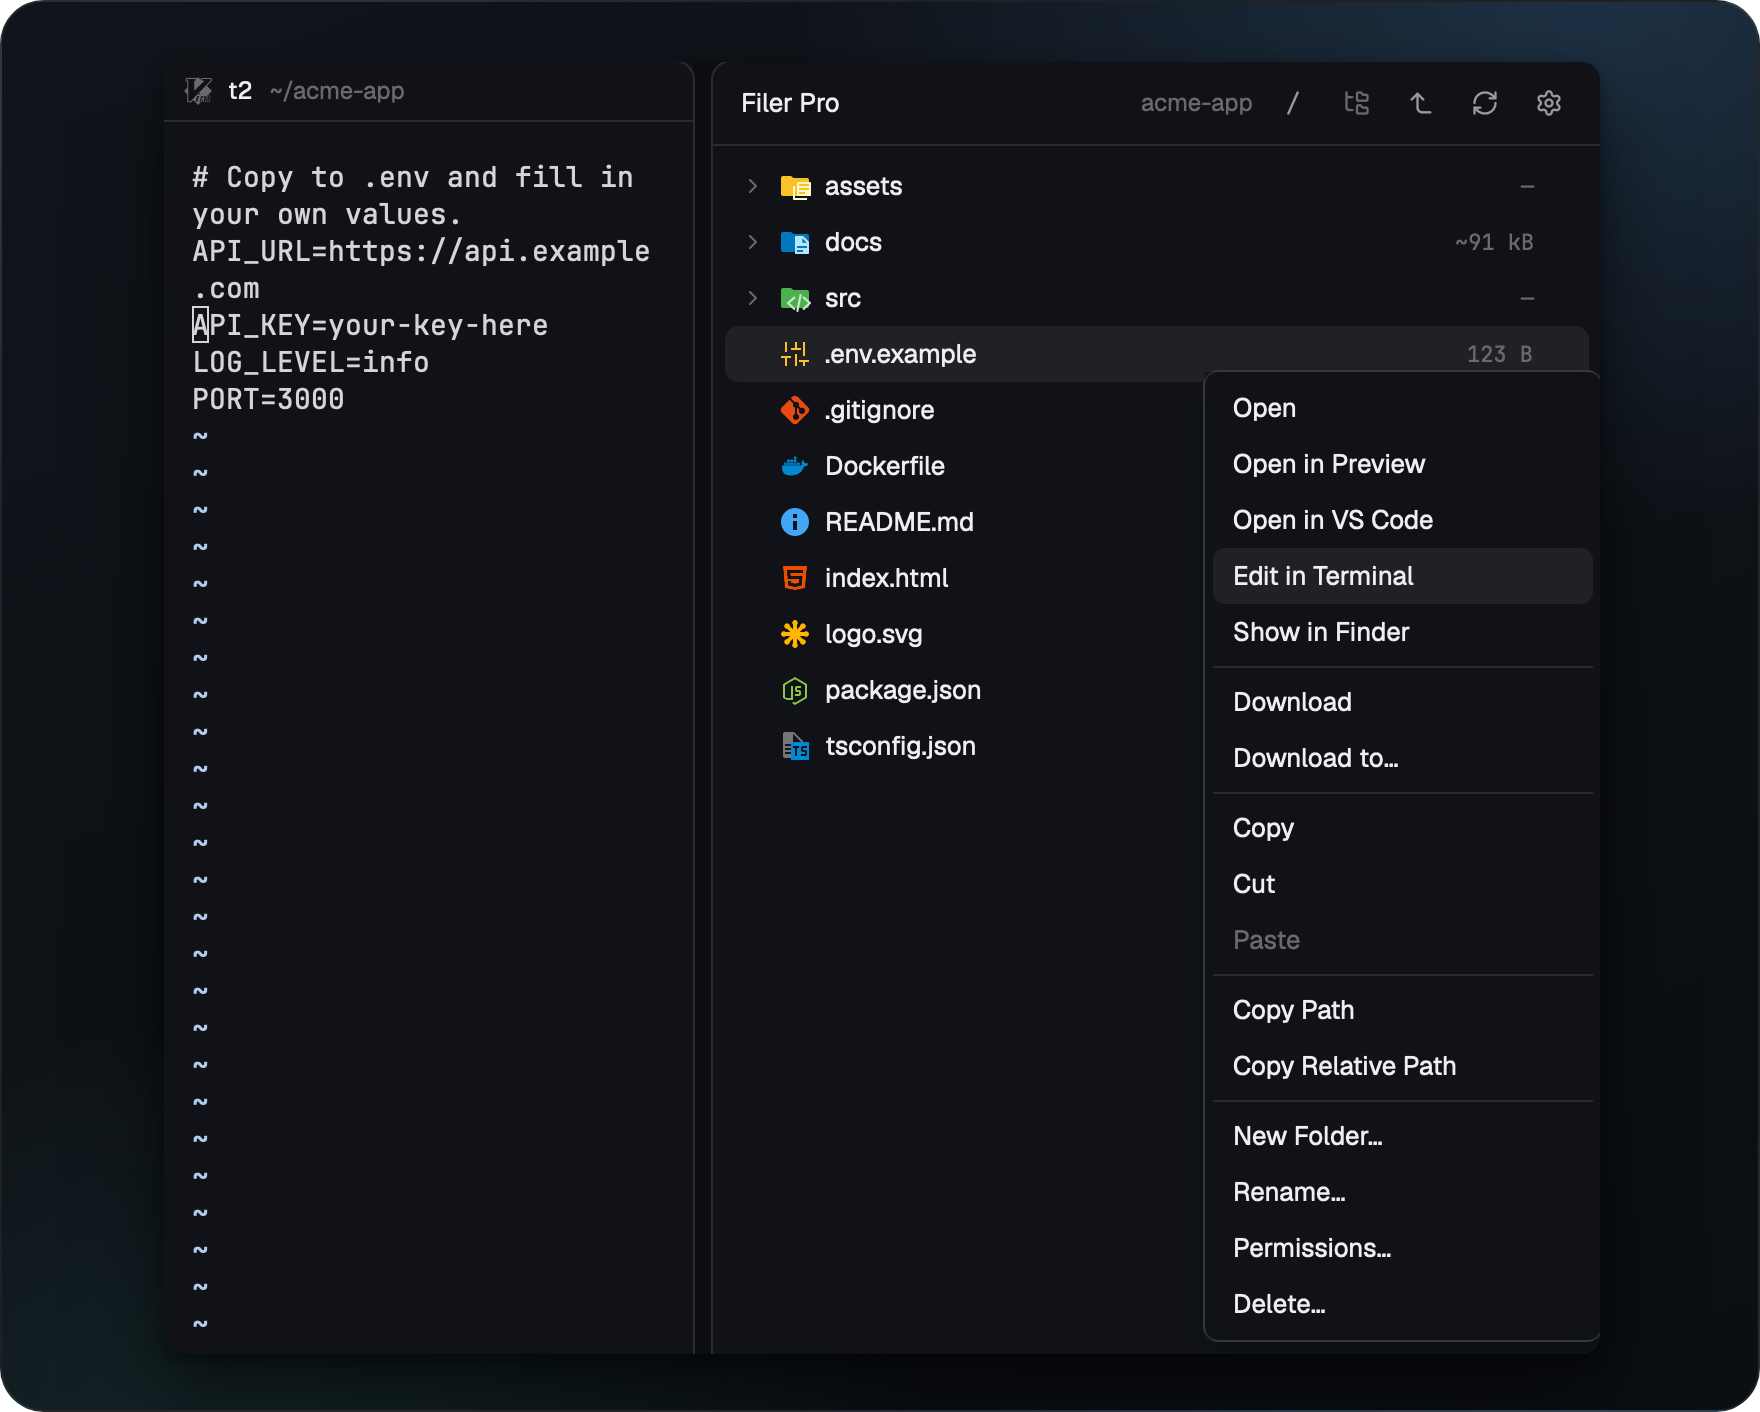
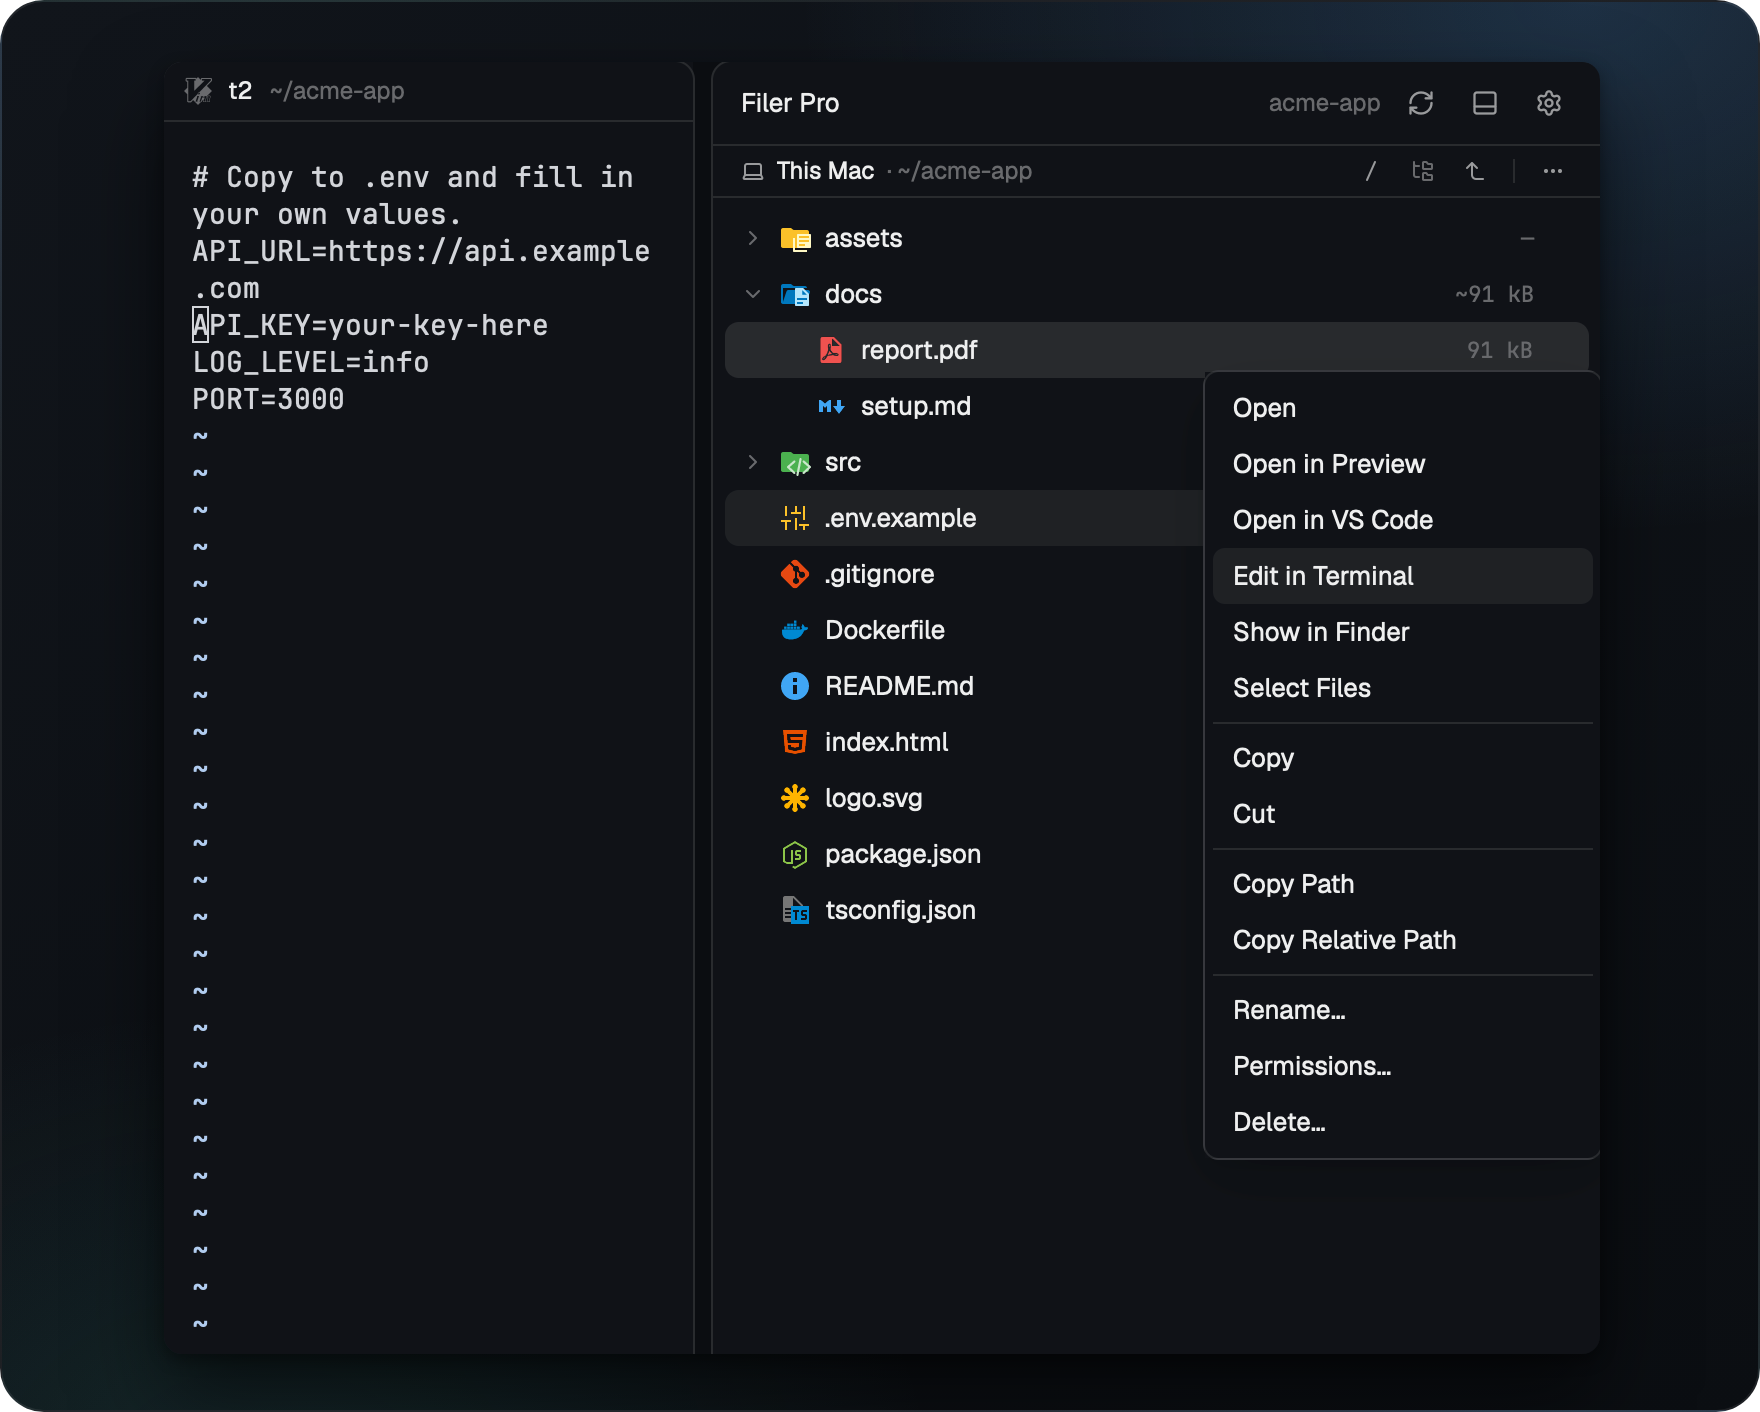
docs: README and screenshots for 1.4
- README: Folder actions, This Mac below, Select several as own sections;
  Transfers rewritten for upload, download, move and drag into a terminal
- new cards: machine (devbox tree over This Mac), select, folder-actions
- re-shot: browse, editors, extract, show-as-root, settings
- shoot.sh: select, machine, folder-actions; DEMO_MACHINE shows a host as
  devbox; zoom 2 fallback on displays without Retina scaling
- demo-instance.sh: machine step with its own hc session, cleaned by clean
- demo-hook.mjs: select op, tree parameter, row menu as in rows()

diff --git a/scripts/screenshots/cards/machine.html b/scripts/screenshots/cards/machine.html
@@ -1,0 +1,14 @@
+<!DOCTYPE html>
+<html lang="en"><head><meta charset="utf-8"><title>Machine card</title>
+<link rel="stylesheet" href="card.css">
+<style>
+/* layout: the devbox tree above This Mac with both location lines, the row menu of a remote file with Download to This Mac beside it */
+html, body { width: 880px; height: 792px; }
+.tree { left: 120px; top: 30px; width: 446px; height: 732px; }
+.shot.cut.tree { border-color: #363a3f; }
+.menu { left: 580px; top: 100px; width: 200px; border-radius: 9px; }
+</style></head>
+<body><div class="frame">
+  <div class="shot cut tree"><img src="machine-tree.png" alt=""></div>
+  <div class="shot menu"><img src="machine-menu.png" alt=""></div>
+</div></body></html>

diff --git a/scripts/screenshots/cards/select.html b/scripts/screenshots/cards/select.html
@@ -1,0 +1,14 @@
+<!DOCTYPE html>
+<html lang="en"><head><meta charset="utf-8"><title>Select card</title>
+<link rel="stylesheet" href="card.css">
+<style>
+/* layout: three files picked in the checkbox mode with the selection bar below the tree, the short menu for all of them beside it */
+html, body { width: 880px; height: 792px; }
+.tree { left: 120px; top: 30px; width: 446px; height: 732px; }
+.shot.cut.tree { border-color: #363a3f; }
+.menu { left: 580px; top: 100px; width: 200px; border-radius: 9px; }
+</style></head>
+<body><div class="frame">
+  <div class="shot cut tree"><img src="select-tree.png" alt=""></div>
+  <div class="shot menu"><img src="select-menu.png" alt=""></div>
+</div></body></html>

diff --git a/scripts/screenshots/cards/folder-actions.html b/scripts/screenshots/cards/folder-actions.html
@@ -1,0 +1,14 @@
+<!DOCTYPE html>
+<html lang="en"><head><meta charset="utf-8"><title>Folder actions card</title>
+<link rel="stylesheet" href="card.css">
+<style>
+/* layout: the devbox tree, the Folder actions menu of its location line beside it */
+html, body { width: 880px; height: 640px; }
+.tree { left: 120px; top: 30px; width: 446px; height: 580px; }
+.shot.cut.tree { border-color: #363a3f; }
+.menu { left: 580px; top: 100px; width: 200px; border-radius: 9px; }
+</style></head>
+<body><div class="frame">
+  <div class="shot cut tree"><img src="folder-tree.png" alt=""></div>
+  <div class="shot menu"><img src="folder-menu.png" alt=""></div>
+</div></body></html>

diff --git a/scripts/screenshots/README.md b/scripts/screenshots/README.md
@@ -8,17 +8,21 @@ The README images in `screenshots/` are cards: crops of a running Herdr window, 
 scripts/screenshots/shoot.sh
 ```
 
-`scripts/screenshots/shoot.sh browse extract` shoots only the named cards (preview, formats, browse, editors, extract, edit-terminal, pdf-fullscreen, settings, show-as-root); `CROP_ONLY=1` re-crops and renders from the raw shots in `tmp/shots-raw` without launching anything.
+`scripts/screenshots/shoot.sh browse extract` shoots only the named cards (preview, formats, browse, editors, extract, edit-terminal, pdf-fullscreen, settings, show-as-root, select, machine, folder-actions); `CROP_ONLY=1` re-crops and renders from the raw shots in `tmp/shots-raw` without launching anything.
 
-It prepares a separate Herdr instance, launches it once, sets every state without mouse or keyboard, takes the shots, quits the instance, crops them and renders all cards into `screenshots/`. Needs macOS, Herdr.app, Microsoft Edge (headless, no window), `node`, `zip` and `sips`. Look at every image before you commit it: no user name, no path outside `~/acme-app`.
+`machine` and `folder-actions` show a machine tree and need an SSH host: `DEMO_MACHINE=<ssh target> scripts/screenshots/shoot.sh`. The host shows as `devbox` and gets the demo project in `/tmp/acme-app` (a machine tree shows the full path, so a folder below `/home/<user>` would show the user name). Without `DEMO_MACHINE` both cards are skipped.
+
+It prepares a separate Herdr instance, launches it once, sets every state without mouse or keyboard, takes the shots, quits the instance, crops them and renders all cards into `screenshots/`. Needs macOS, Herdr.app, Microsoft Edge (headless, no window), `node`, `zip` and `sips`. Look at every image before you commit it: no user name, no path outside `~/acme-app` (and `/tmp/acme-app` on `devbox`), no real host name.
+
+On a display without Retina scaling the window shoots at half size. Then the run restarts the instance with a window of 2560 x 1640 points at app zoom 2, so the panel lands on the same pixels; `preview`, `formats` and `pdf-fullscreen` are skipped then, and `edit-terminal` cuts its menu at the window edge (Markdown, Mermaid, PDF and HTML draw at the wrong scale at zoom 2): shoot those on a Retina display.
 
 What it never does: touch your own Herdr or its installed mod, use `osascript`, `open -a`, mouse or keyboard automation, or raise a window. The one focus change is macOS giving a new app instance the focus when it launches. The window must stay visible (a minimized window renders no frames for `herdr-app shot`).
 
 ## Files
 
-- `shoot.sh`: the whole run (prepare, launch, drive, shoot, quit, clean, crop, render). The crop boxes are raw pixels of the default window (1280 x 820 points, panel 446 points wide, app zoom 1); it stops when the window has another size.
-- `demo-instance.sh`: `prepare | start | space | quit | clean` for the separate instance. Its `HERDR_APP_HOME` is `tmp/shots-home` and its core session `filerpro-shots`. `prepare` copies `demo/acme-app` to `~/acme-app` (the pane header shows that path, and it refuses to overwrite an existing folder), generates `report.pdf`, `hero.png` and `release.zip` from `demo/gen/` (headless Edge, `zip`), copies the mod of this checkout and writes a layout with the panel shown. It also marks the welcome screen (`frame.welcomed` in `shared.json`) and the what's-new window (`last_run` in `update-notes.json`) as done, so a new instance opens no popup that would need a click.
-- `demo-hook.mjs`: patches the instance's copy of the mod (never `mods/filer-pro`, never your installed mod) so the panel polls `$HERDR_APP_HOME/demo-cmd.json` and sets the state a click or hover would set, through the real code: expanded folders, Calculate Size, the row menu with one entry hovered, the Settings dialog scrolled to a section, the fullscreen PDF with two pages, the lower tree on or off (`{"op":"localtree","shown":true}`, optional `root` and `sizes`). It stops loudly when an anchor in the mod has moved; `test/screenshot-hook.test.js` applies it to the current mod on every `npm test`, and checks that the shipped mod has no trace of it.
+- `shoot.sh`: the whole run (prepare, launch, drive, shoot, quit, clean, crop, render). The crop boxes are raw pixels of the default window (1280 x 820 points at 2x, panel 446 points wide, app zoom 1); it stops when the window has another size.
+- `demo-instance.sh`: `prepare | start | space | machine | quit | clean` for the separate instance. Its `HERDR_APP_HOME` is `tmp/shots-home` and its core session `filerpro-shots`. `prepare` copies `demo/acme-app` to `~/acme-app` (the pane header shows that path, and it refuses to overwrite an existing folder), generates `report.pdf`, `hero.png` and `release.zip` from `demo/gen/` (headless Edge, `zip`), copies the mod of this checkout and writes a layout with the panel shown. It also marks the welcome screen (`frame.welcomed` in `shared.json`) and the what's-new window (`last_run` in `update-notes.json`) as done, so a new instance opens no popup that would need a click. `machine` copies the demo to `/tmp/acme-app` on `DEMO_MACHINE` (it refuses to overwrite) and adds that host to this instance's core only, as `devbox`, with its own hc session there: `~/.ssh/config` and the machines of your own Herdr stay as they are. `clean` deletes both again, the remote session included.
+- `demo-hook.mjs`: patches the instance's copy of the mod (never `mods/filer-pro`, never your installed mod) so the panel polls `$HERDR_APP_HOME/demo-cmd.json` and sets the state a click or hover would set, through the real code: expanded folders, Calculate Size, the row menu with one entry hovered, the Settings dialog scrolled to a section, the fullscreen PDF with two pages, the lower tree on or off (`{"op":"localtree","shown":true}`, optional `root` and `sizes`), a selection (`{"op":"select","paths":[…],"boxes":true}`), the Folder actions menu (`rootmenu`). `"tree":"pinned"` points a command at the lower tree. It stops loudly when an anchor in the mod has moved; `test/screenshot-hook.test.js` applies it to the current mod on every `npm test`, and checks that the shipped mod has no trace of it.
 - `render.sh`: renders a card into a PNG with headless Microsoft Edge (`EDGE=/path/to/browser` picks another Chromium-based browser).
 - `cards/card.css`, `cards/*.html`: the shared frame and one card per image, each listing its crops and their positions in CSS pixels. The crops (`cards/*.png`) and the browser profile are ignored by git: they hold window content, only the finished card goes into `screenshots/`.
 - `demo/acme-app/`, `demo/gen/`: the demo project and the sources of its generated binary files.

diff --git a/README.md b/README.md
@@ -7,7 +7,8 @@
 - **Follows your terminal:** the tree shows the folder of the focused terminal, local or remote.
 - **Previews almost anything:** Markdown with Mermaid diagrams, PDF, code, HTML and images, also in full screen.
 - **Edits in place:** quick fixes right in the panel, or one click to your editor.
-- **Moves files between machines:** upload, download and copy from one SSH machine to another.
+- **Two trees:** your terminal's folder on top, This Mac below.
+- **Moves files between your Mac and your machines:** upload, download, copy and move, also from one SSH machine to another.
 - **Quiet on SSH machines:** no commands sent while you just look.
 
 <br>
@@ -35,14 +36,36 @@ Then click `Filer Pro` in the tab bar.
 ### Browse
 
 - **Your terminal's folder:** `cd` in the terminal, and the tree follows.
-- **This Mac below:** a second tree on this computer under the terminal's tree; Copy in one, Paste in the other.
-- **Navigate freely:** Up one level, Go to `/`, and one click back to the terminal's folder, in a location line above each tree.
-- **Folder actions:** the `…` button of each tree for New Folder, Paste, Upload, Show in Finder, Open in your editor and Show Hidden Files.
+- **Location line:** where you are, Go to `/`, Up one level and one click back to the terminal's folder.
 - **Sizes and git marks:** file sizes next to each name, Calculate Size for folders, `M` `A` `U` `D` from git.
 - **Always current:** follows file system events on this Mac, no polling.
-- **Select several files:** Select Files in the right-click menu, or Cmd+click and Shift+click with the switch in Settings.
 
 ![The file tree with sizes, a calculated folder size and the row menu of a file](screenshots/browse.png)
+
+### Folder actions
+
+- **The `…` in the location line**, or a right click below the tree: Upload File… and Upload Folder… on machines, New Folder…, Paste, Show in Finder, Open in your editor, Select Files.
+- **Show Hidden Files** with one click.
+- **Row menus act on the row** they belong to.
+
+![The Folder actions of a machine tree with Upload File…, Upload Folder… and Show Hidden Files](screenshots/folder-actions.png)
+
+### This Mac below
+
+- **A second tree** on this computer under the terminal's tree: **Show This Mac** in the header, `×` to close.
+- **Starts in your home folder,** or in the start folder you set in Settings.
+- **Between the trees:** Download to This Mac, Upload to `<machine>`, or Copy and Paste.
+- **Drag the divider** to share the height.
+
+![A machine tree on devbox above This Mac, with Download to This Mac in the row menu](screenshots/machine.png)
+
+### Select several
+
+- **Select Files** in a menu puts a checkbox on every row.
+- **Cmd+click and Shift+click** with the switch in Settings.
+- **One step for all:** Download, Copy, Cut, Paste, Copy Paths or Delete, from the selection bar or a right click.
+
+![Three files checked, the selection bar and the menu for all of them](screenshots/select.png)
 
 ### Show as Root
 
@@ -88,11 +111,12 @@ Then click `Filer Pro` in the tab bar.
 
 ### Transfers
 
-- **Drop to upload** from the Finder, or **Upload File…** or **Upload Folder…** in the Folder actions of a machine tree (the file picker needs a Herdr version with `pickFiles`), right click to download.
-- **Drag out:** rows are drag sources for terminals only (the path is pasted). Between the two trees use **Upload to <machine>**, **Download to This Mac** or Copy and Paste.
+- **Upload:** drop files from the Finder, or Upload File… and Upload Folder… in the Folder actions of a machine tree.
+- **Download:** right click a row on a machine, or Download to This Mac into the lower tree.
+- **Move:** Cut on one side, Paste on the other, between this computer and a machine or between two machines. The original goes only after the copy checks out.
+- **Machine to machine:** Copy on one, Paste on the other, through this computer.
+- **Drag a row into a terminal** to paste its path.
 - **Progress and cancel** for every transfer, nothing overwritten without asking.
-- **Machine to machine:** Copy or Cut on one, Paste on the other, through this computer. A Cut copies, checks and then deletes the original.
-- **Several at once:** select rows, then Download, Copy, Cut or Delete them in one step.
 
 ![A running transfer and the conflict dialog](screenshots/transfers.png)
 
